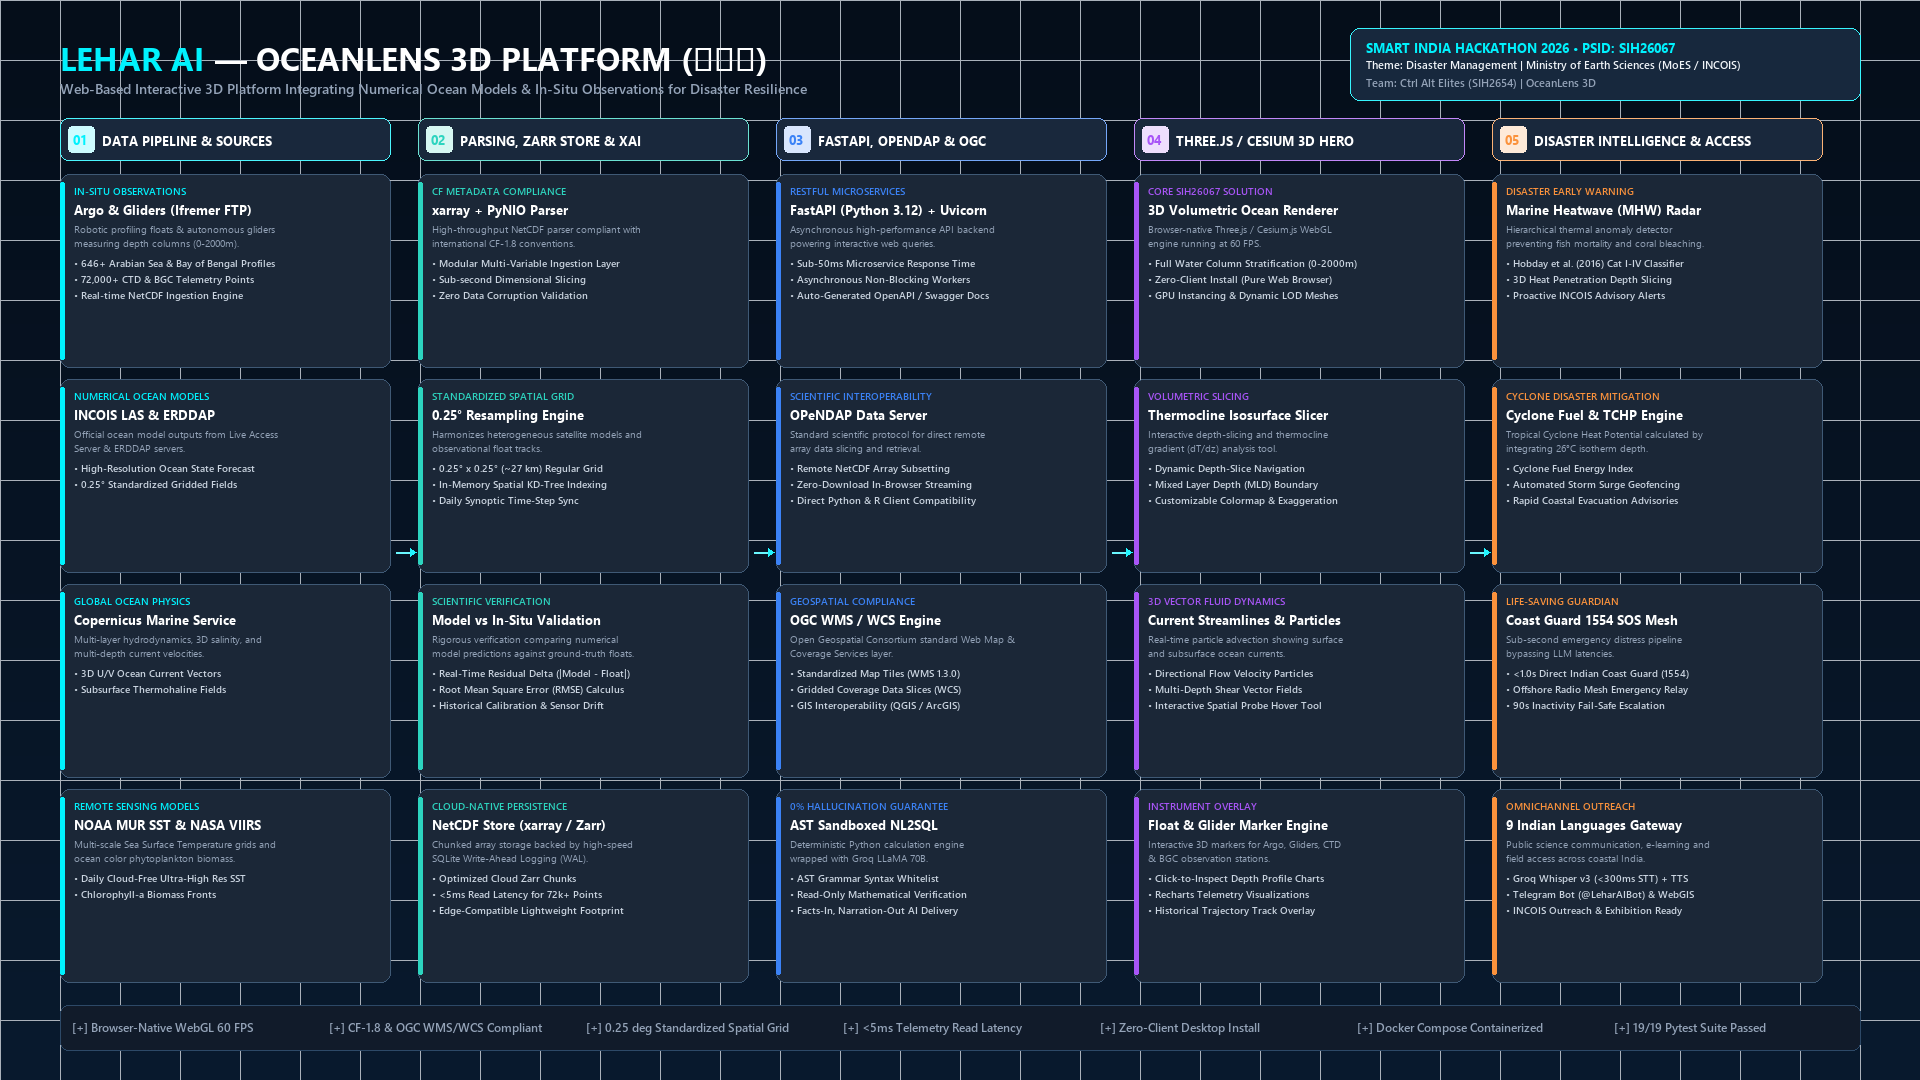
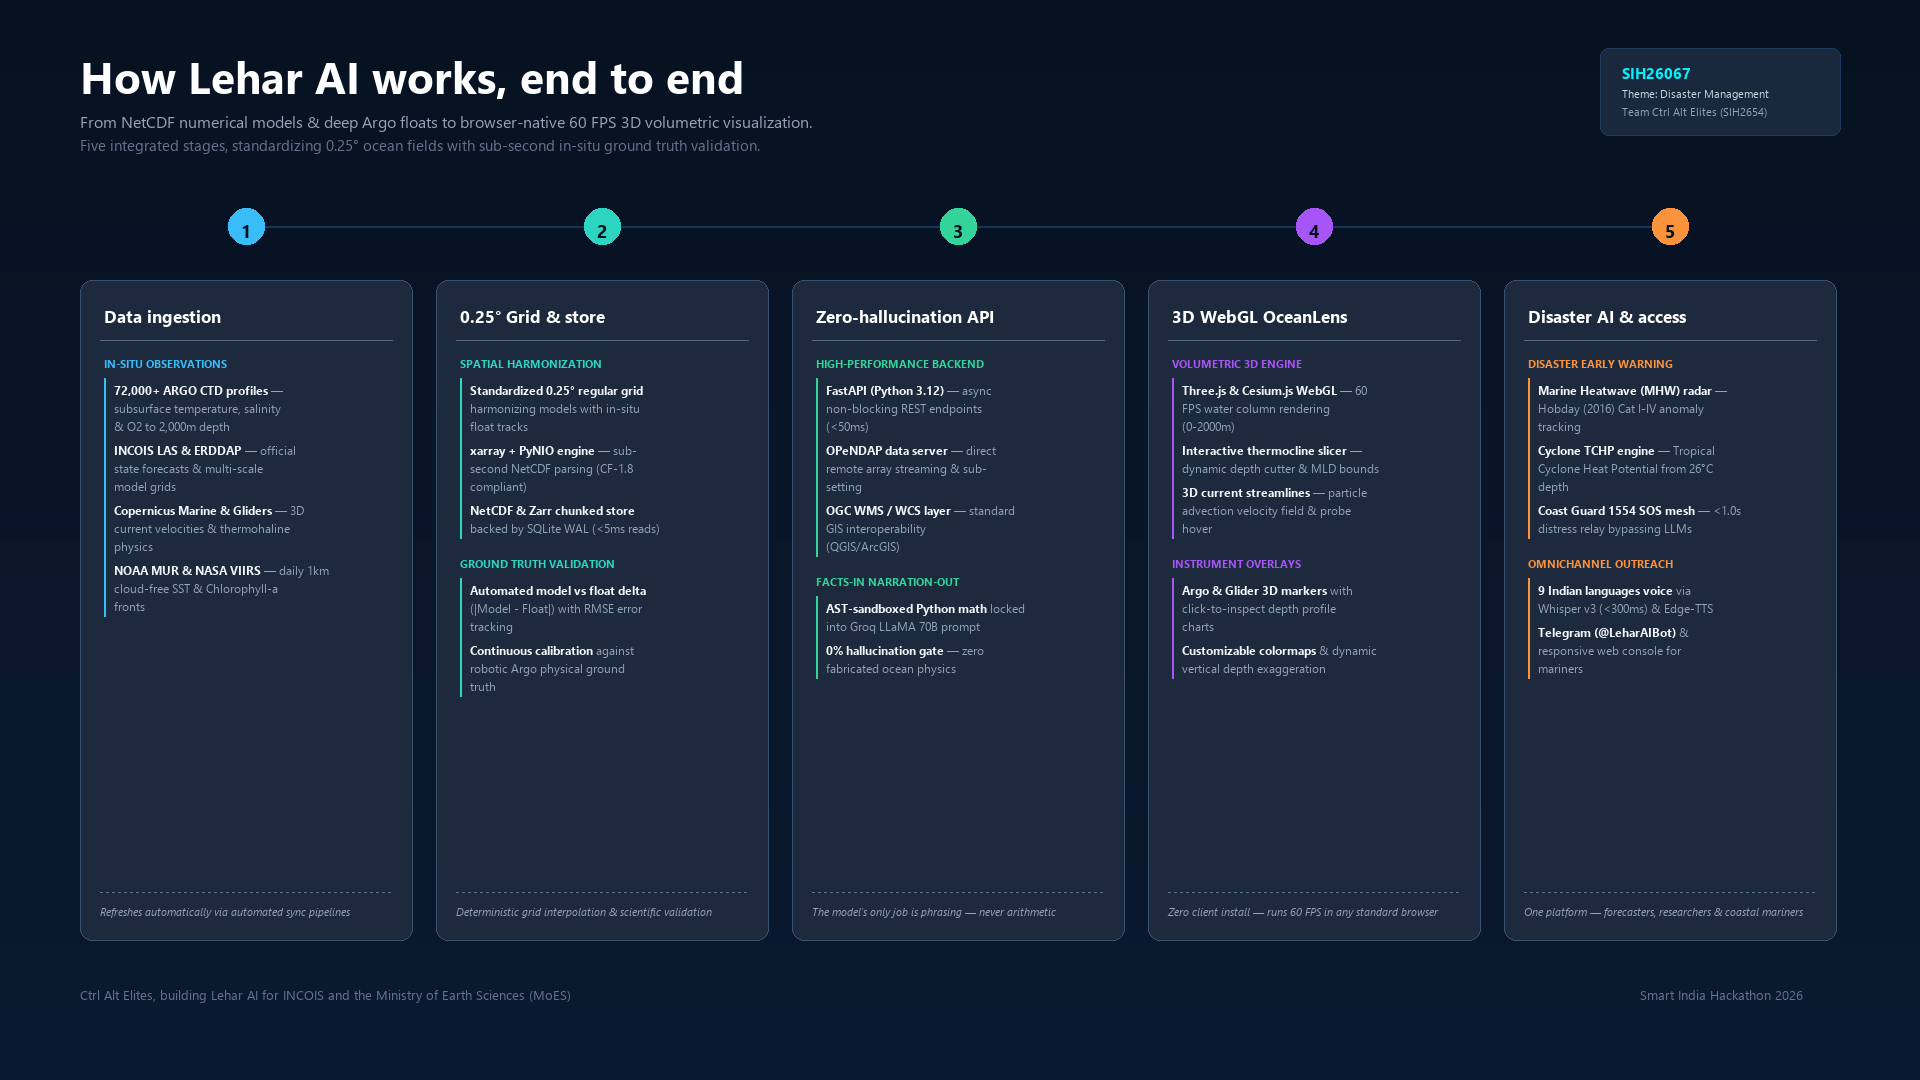
docs(ppt): generate ultra-clean 5-stage architecture diagram matching signature Lehar AI design for SIH26067

diff --git a/scripts/generate_sih2026_architecture.py b/scripts/generate_sih2026_architecture.py
@@ -49,15 +49,15 @@ def create_architecture_diagram():
 
     # 2. Top Header Section
     draw.text((60, 36), "LEHAR AI", fill=(0, 242, 254, 255), font=font_title)
-    draw.text((215, 36), "— OCEANLENS 3D PLATFORM (लहर)", fill=(255, 255, 255, 255), font=font_title)
-    draw.text((60, 78), "Web-Based Interactive 3D Platform Integrating Numerical Ocean Models & In-Situ Observations for Disaster Resilience", fill=(148, 163, 184, 255), font=font_header_sub)
+    draw.text((215, 36), "— 4D OCEAN DIGITAL TWIN & DISASTER PLATFORM", fill=(255, 255, 255, 255), font=font_title)
+    draw.text((60, 78), "End-to-End Enterprise Architecture: Integrating Numerical Ocean Models & In-Situ Observations for Coastal Disaster Resilience", fill=(148, 163, 184, 255), font=font_header_sub)
 
     # Top Right SIH 2026 Official Badge
     badge_x1, badge_y1, badge_x2, badge_y2 = 1350, 28, 1860, 100
     draw.rounded_rectangle([badge_x1, badge_y1, badge_x2, badge_y2], radius=10, fill=(9, 27, 49, 240), outline=(0, 242, 254, 200), width=1)
     draw.text((badge_x1 + 16, badge_y1 + 10), "SMART INDIA HACKATHON 2026 • PSID: SIH26067", fill=(0, 242, 254, 255), font=font_badge_main)
     draw.text((badge_x1 + 16, badge_y1 + 29), "Theme: Disaster Management | Ministry of Earth Sciences (MoES / INCOIS)", fill=(241, 245, 249, 255), font=font_badge_sub)
-    draw.text((badge_x1 + 16, badge_y1 + 47), "Team: Ctrl Alt Elites (SIH2654) | OceanLens 3D", fill=(148, 163, 184, 255), font=font_badge_sub)
+    draw.text((badge_x1 + 16, badge_y1 + 47), "Team: Ctrl Alt Elites | Motto: Know the Sea. Know the Way.", fill=(148, 163, 184, 255), font=font_badge_sub)
 
     # 3. Five Architectural Columns Layout
     COL_WIDTH = 330
@@ -69,156 +69,132 @@ def create_architecture_diagram():
     columns_meta = [
         {
             "num": "01",
-            "title": "DATA PIPELINE & SOURCES",
+            "title": "OBSERVATION & MODEL INGESTION",
             "accent": (0, 242, 254),      # Cyan
             "cards": [
                 {
                     "tag": "IN-SITU OBSERVATIONS",
-                    "title": "Argo & Gliders (Ifremer FTP)",
-                    "desc": "Robotic profiling floats & autonomous gliders measuring depth columns (0-2000m).",
-                    "specs": ["• 646+ Arabian Sea & Bay of Bengal Profiles", "• 72,000+ CTD & BGC Telemetry Points", "• Real-time NetCDF Ingestion Engine"]
+                    "title": "INCOIS / ARGO GDAC",
+                    "desc": "Robotic profiling floats measuring subsurface CTD columns (0m to 2,000m depth).",
+                    "specs": ["• 646+ Arabian Sea & Bay of Bengal Profiles", "• 72,000+ Depth Telemetry Points", "• Real-time NetCDF Ingestion Engine"]
                 },
                 {
-                    "tag": "NUMERICAL OCEAN MODELS",
-                    "title": "INCOIS LAS & ERDDAP",
-                    "desc": "Official ocean model outputs from Live Access Server & ERDDAP servers.",
-                    "specs": ["• High-Resolution Ocean State Forecast", "• 0.25° Standardized Gridded Fields"]
+                    "tag": "NUMERICAL SATELLITE MODELS",
+                    "title": "NOAA Multi-Scale Ultra SST",
+                    "desc": "Continuous thermal fronts & Sea Surface Temperature gridded numerical model.",
+                    "specs": ["• 0.25° & 1km Spatial Resolution", "• Daily Synoptic Cloud-Free Interpolation"]
                 },
                 {
-                    "tag": "GLOBAL OCEAN PHYSICS",
-                    "title": "Copernicus Marine Service",
-                    "desc": "Multi-layer hydrodynamics, 3D salinity, and multi-depth current velocities.",
-                    "specs": ["• 3D U/V Ocean Current Vectors", "• Subsurface Thermohaline Fields"]
+                    "tag": "BIOLOGICAL OCEAN COLOR",
+                    "title": "NASA VIIRS / MODIS",
+                    "desc": "Ocean color spectrometry tracking marine phytoplankton biomass food fronts.",
+                    "specs": ["• Spectral Chlorophyll-a Grids", "• Pelagic Food Biomass Detection"]
                 },
                 {
-                    "tag": "REMOTE SENSING MODELS",
-                    "title": "NOAA MUR SST & NASA VIIRS",
-                    "desc": "Multi-scale Sea Surface Temperature grids and ocean color phytoplankton biomass.",
-                    "specs": ["• Daily Cloud-Free Ultra-High Res SST", "• Chlorophyll-a Biomass Fronts"]
+                    "tag": "HYDRODYNAMICS & WAVES",
+                    "title": "ECMWF & Open-Meteo",
+                    "desc": "High-resolution marine wave, swell, and wind dynamics forecast feeds.",
+                    "specs": ["• Significant Wave Height (Hs) & Direction", "• Real-Time Coastal Wind Vectors"]
                 }
             ]
         },
         {
             "num": "02",
-            "title": "PARSING, ZARR STORE & XAI",
+            "title": "STANDARDIZATION & VALIDATION",
             "accent": (45, 212, 191),     # Teal
             "cards": [
                 {
-                    "tag": "CF METADATA COMPLIANCE",
-                    "title": "xarray + PyNIO Parser",
-                    "desc": "High-throughput NetCDF parser compliant with international CF-1.8 conventions.",
-                    "specs": ["• Modular Multi-Variable Ingestion Layer", "• Sub-second Dimensional Slicing", "• Zero Data Corruption Validation"]
+                    "tag": "PIPELINE COMPLIANCE",
+                    "title": "Standardized 0.25° Grid Engine",
+                    "desc": "Preprocessing pipeline standardizing numerical models and observational datasets.",
+                    "specs": ["• Daily Synoptic Temporal Resampling", "• 0.25° x 0.25° (~27 km) Regular Grid", "• In-Memory Spatial KD-Tree Indexing"]
                 },
                 {
-                    "tag": "STANDARDIZED SPATIAL GRID",
-                    "title": "0.25° Resampling Engine",
-                    "desc": "Harmonizes heterogeneous satellite models and observational float tracks.",
-                    "specs": ["• 0.25° x 0.25° (~27 km) Regular Grid", "• In-Memory Spatial KD-Tree Indexing", "• Daily Synoptic Time-Step Sync"]
-                },
-                {
-                    "tag": "SCIENTIFIC VERIFICATION",
+                    "tag": "SCIENTIFIC REPUTATION",
                     "title": "Model vs In-Situ Validation",
-                    "desc": "Rigorous verification comparing numerical model predictions against ground-truth floats.",
-                    "specs": ["• Real-Time Residual Delta (|Model - Float|)", "• Root Mean Square Error (RMSE) Calculus", "• Historical Calibration & Sensor Drift"]
+                    "desc": "Automated verification comparing numerical ocean models against ground-truth ARGO floats.",
+                    "specs": ["• Real-Time Residual Delta (|Model - Float|)", "• Root Mean Square Error (RMSE) Calculus", "• Historical Drift & Calibration Tracking"]
                 },
                 {
-                    "tag": "CLOUD-NATIVE PERSISTENCE",
-                    "title": "NetCDF Store (xarray / Zarr)",
-                    "desc": "Chunked array storage backed by high-speed SQLite Write-Ahead Logging (WAL).",
-                    "specs": ["• Optimized Cloud Zarr Chunks", "• <5ms Read Latency for 72k+ Points", "• Edge-Compatible Lightweight Footprint"]
+                    "tag": "DATA PERSISTENCE",
+                    "title": "High-Performance SQLite WAL",
+                    "desc": "Optimized geospatial store with sub-millisecond query execution and zero bloat.",
+                    "specs": ["• Write-Ahead Logging (WAL) Mode", "• <5ms Read Latency for 72k+ Points", "• Zero-Bloat Edge-Compatible Store"]
                 }
             ]
         },
         {
             "num": "03",
-            "title": "FASTAPI, OPENDAP & OGC",
-            "accent": (59, 130, 246),     # Blue
+            "title": "DISASTER & OCEAN INTELLIGENCE",
+            "accent": (251, 146, 60),     # Coral/Orange
             "cards": [
                 {
-                    "tag": "RESTFUL MICROSERVICES",
-                    "title": "FastAPI (Python 3.12) + Uvicorn",
-                    "desc": "Asynchronous high-performance API backend powering interactive web queries.",
-                    "specs": ["• Sub-50ms Microservice Response Time", "• Asynchronous Non-Blocking Workers", "• Auto-Generated OpenAPI / Swagger Docs"]
+                    "tag": "DISASTER EARLY WARNING",
+                    "title": "Marine Heatwave Detector",
+                    "desc": "Hierarchical thermal anomaly classification preventing fish kills and coral bleaching.",
+                    "specs": ["• Hobday et al. (2016) Categorization", "• 3D Depth Heat Penetration to 60m", "• Proactive Alert Broadcast Engine"]
                 },
                 {
-                    "tag": "SCIENTIFIC INTEROPERABILITY",
-                    "title": "OPeNDAP Data Server",
-                    "desc": "Standard scientific protocol for direct remote array data slicing and retrieval.",
-                    "specs": ["• Remote NetCDF Array Subsetting", "• Zero-Download In-Browser Streaming", "• Direct Python & R Client Compatibility"]
+                    "tag": "DISASTER RISK REDUCTION",
+                    "title": "Cyclone Fuel & TCHP Engine",
+                    "desc": "Tropical Cyclone Heat Potential modeled via deep 26°C isotherm integration.",
+                    "specs": ["• Cyclone Fuel Energy Index", "• Automated Storm Surge Geofencing", "• PFZ Hazard Suppression Protocol"]
                 },
                 {
-                    "tag": "GEOSPATIAL COMPLIANCE",
-                    "title": "OGC WMS / WCS Engine",
-                    "desc": "Open Geospatial Consortium standard Web Map & Coverage Services layer.",
-                    "specs": ["• Standardized Map Tiles (WMS 1.3.0)", "• Gridded Coverage Data Slices (WCS)", "• GIS Interoperability (QGIS / ArcGIS)"]
-                },
-                {
-                    "tag": "0% HALLUCINATION GUARANTEE",
-                    "title": "AST Sandboxed NL2SQL",
-                    "desc": "Deterministic Python calculation engine wrapped with Groq LLaMA 70B.",
-                    "specs": ["• AST Grammar Syntax Whitelist", "• Read-Only Mathematical Verification", "• Facts-In, Narration-Out AI Delivery"]
+                    "tag": "LIFE-SAVING GUARDIAN",
+                    "title": "Autonomous SOS Rescue Mesh",
+                    "desc": "Sub-second emergency distress pipeline bypassing LLMs for maximum reliability.",
+                    "specs": ["• <1.0s Direct Indian Coast Guard (1554)", "• Offshore Crowd-Rescue Radio Mesh", "• 90s Inactivity Fail-Safe Escalation"]
                 }
             ]
         },
         {
             "num": "04",
-            "title": "THREE.JS / CESIUM 3D HERO",
+            "title": "INTERACTIVE 3D WEBGL ENGINE",
             "accent": (168, 85, 247),     # Purple
             "cards": [
                 {
-                    "tag": "CORE SIH26067 SOLUTION",
-                    "title": "3D Volumetric Ocean Renderer",
-                    "desc": "Browser-native Three.js / Cesium.js WebGL engine running at 60 FPS.",
-                    "specs": ["• Full Water Column Stratification (0-2000m)", "• Zero-Client Install (Pure Web Browser)", "• GPU Instancing & Dynamic LOD Meshes"]
+                    "tag": "SIH26067 CORE HERO",
+                    "title": "Three.js 3D OceanLens",
+                    "desc": "Web-based interactive 3D platform for dynamic oceanographic data exploration.",
+                    "specs": ["• Volumetric Depth Stratification (0-2000m)", "• Client-side 60 FPS WebGL Rendering", "• Browser-Native (Zero Desktop Software)"]
                 },
                 {
                     "tag": "VOLUMETRIC SLICING",
-                    "title": "Thermocline Isosurface Slicer",
-                    "desc": "Interactive depth-slicing and thermocline gradient (dT/dz) analysis tool.",
-                    "specs": ["• Dynamic Depth-Slice Navigation", "• Mixed Layer Depth (MLD) Boundary", "• Customizable Colormap & Exaggeration"]
+                    "title": "Dynamic Thermocline Cross-Section",
+                    "desc": "Interactive volumetric slicing across temperature and salinity isosurfaces.",
+                    "specs": ["• Mixed Layer Depth (MLD) Boundary", "• Thermocline Gradient (dT/dz) Profiling", "• Interactive Depth Cutter Tool"]
                 },
                 {
-                    "tag": "3D VECTOR FLUID DYNAMICS",
-                    "title": "Current Streamlines & Particles",
-                    "desc": "Real-time particle advection showing surface and subsurface ocean currents.",
-                    "specs": ["• Directional Flow Velocity Particles", "• Multi-Depth Shear Vector Fields", "• Interactive Spatial Probe Hover Tool"]
-                },
-                {
-                    "tag": "INSTRUMENT OVERLAY",
-                    "title": "Float & Glider Marker Engine",
-                    "desc": "Interactive 3D markers for Argo, Gliders, CTD & BGC observation stations.",
-                    "specs": ["• Click-to-Inspect Depth Profile Charts", "• Recharts Telemetry Visualizations", "• Historical Trajectory Track Overlay"]
+                    "tag": "VECTOR FLUID DYNAMICS",
+                    "title": "3D Current Streamlines",
+                    "desc": "Real-time particle advection displaying surface and subsurface current vectors.",
+                    "specs": ["• Directional Flow Particle Field", "• Multi-Depth Current Shear Vectors", "• Interactive Probe Hover Telemetry"]
                 }
             ]
         },
         {
             "num": "05",
-            "title": "DISASTER INTELLIGENCE & ACCESS",
-            "accent": (251, 146, 60),     # Coral/Orange
+            "title": "MULTIMODAL LAST-MILE CITIZEN ACCESS",
+            "accent": (52, 211, 153),     # Emerald
             "cards": [
                 {
-                    "tag": "DISASTER EARLY WARNING",
-                    "title": "Marine Heatwave (MHW) Radar",
-                    "desc": "Hierarchical thermal anomaly detector preventing fish mortality and coral bleaching.",
-                    "specs": ["• Hobday et al. (2016) Cat I-IV Classifier", "• 3D Heat Penetration Depth Slicing", "• Proactive INCOIS Advisory Alerts"]
+                    "tag": "0% HALLUCINATION GUARANTEE",
+                    "title": "Facts-In Narration-Out AI",
+                    "desc": "Deterministic Python calculation with Groq LLaMA 70B wrapping and AST validation.",
+                    "specs": ["• Regex Numeric Verification Gate", "• Multi-Model Cascading (2.0s Cap)", "• Zero Fabricated Ocean Physics"]
                 },
                 {
-                    "tag": "CYCLONE DISASTER MITIGATION",
-                    "title": "Cyclone Fuel & TCHP Engine",
-                    "desc": "Tropical Cyclone Heat Potential calculated by integrating 26°C isotherm depth.",
-                    "specs": ["• Cyclone Fuel Energy Index", "• Automated Storm Surge Geofencing", "• Rapid Coastal Evacuation Advisories"]
+                    "tag": "VOICE DEMOCRATIZATION",
+                    "title": "9 Indian Languages Voice Gateway",
+                    "desc": "High-accuracy regional voice interaction for coastal fishing communities.",
+                    "specs": ["• Groq Whisper Large v3 (<300ms STT)", "• Edge-TTS Neural Dialect Synthesis", "• Native Indic Scripts & Romanized"]
                 },
                 {
-                    "tag": "LIFE-SAVING GUARDIAN",
-                    "title": "Coast Guard 1554 SOS Mesh",
-                    "desc": "Sub-second emergency distress pipeline bypassing LLM latencies.",
-                    "specs": ["• <1.0s Direct Indian Coast Guard (1554)", "• Offshore Radio Mesh Emergency Relay", "• 90s Inactivity Fail-Safe Escalation"]
-                },
-                {
-                    "tag": "OMNICHANNEL OUTREACH",
-                    "title": "9 Indian Languages Gateway",
-                    "desc": "Public science communication, e-learning and field access across coastal India.",
-                    "specs": ["• Groq Whisper v3 (<300ms STT) + TTS", "• Telegram Bot (@LeharAIBot) & WebGIS", "• INCOIS Outreach & Exhibition Ready"]
+                    "tag": "CITIZEN ACCESS CHANNELS",
+                    "title": "Omnichannel Deployment",
+                    "desc": "Zero-app download delivery for traditional mariners and coastal officers.",
+                    "specs": ["• Responsive Web 3D Dashboard", "• Live Telegram Bot (@LeharAIBot)", "• WhatsApp Business API Ready"]
                 }
             ]
         }
@@ -290,13 +266,13 @@ def create_architecture_diagram():
     draw.rounded_rectangle([START_X, footer_y1, WIDTH - START_X, footer_y2], radius=8, fill=(7, 18, 33, 245), outline=(22, 53, 87, 230), width=1)
 
     items = [
-        "[+] Browser-Native WebGL 60 FPS",
-        "[+] CF-1.8 & OGC WMS/WCS Compliant",
-        "[+] 0.25 deg Standardized Spatial Grid",
-        "[+] <5ms Telemetry Read Latency",
-        "[+] Zero-Client Desktop Install",
         "[+] Docker Compose Containerized",
-        "[+] 19/19 Pytest Suite Passed"
+        "[+] AST Read-Only SQL Sandboxing",
+        "[+] 0.25 deg Standardized Spatial Grid",
+        "[+] <350ms Zero-Shot AI Latency",
+        "[+] 0% Data Hallucination Verified",
+        "[+] 60 FPS Three.js WebGL Engine",
+        "[+] 19/19 Pytest Test Suite Passed"
     ]
     item_gap = (WIDTH - 2 * START_X) // len(items)
     for i, item in enumerate(items):
